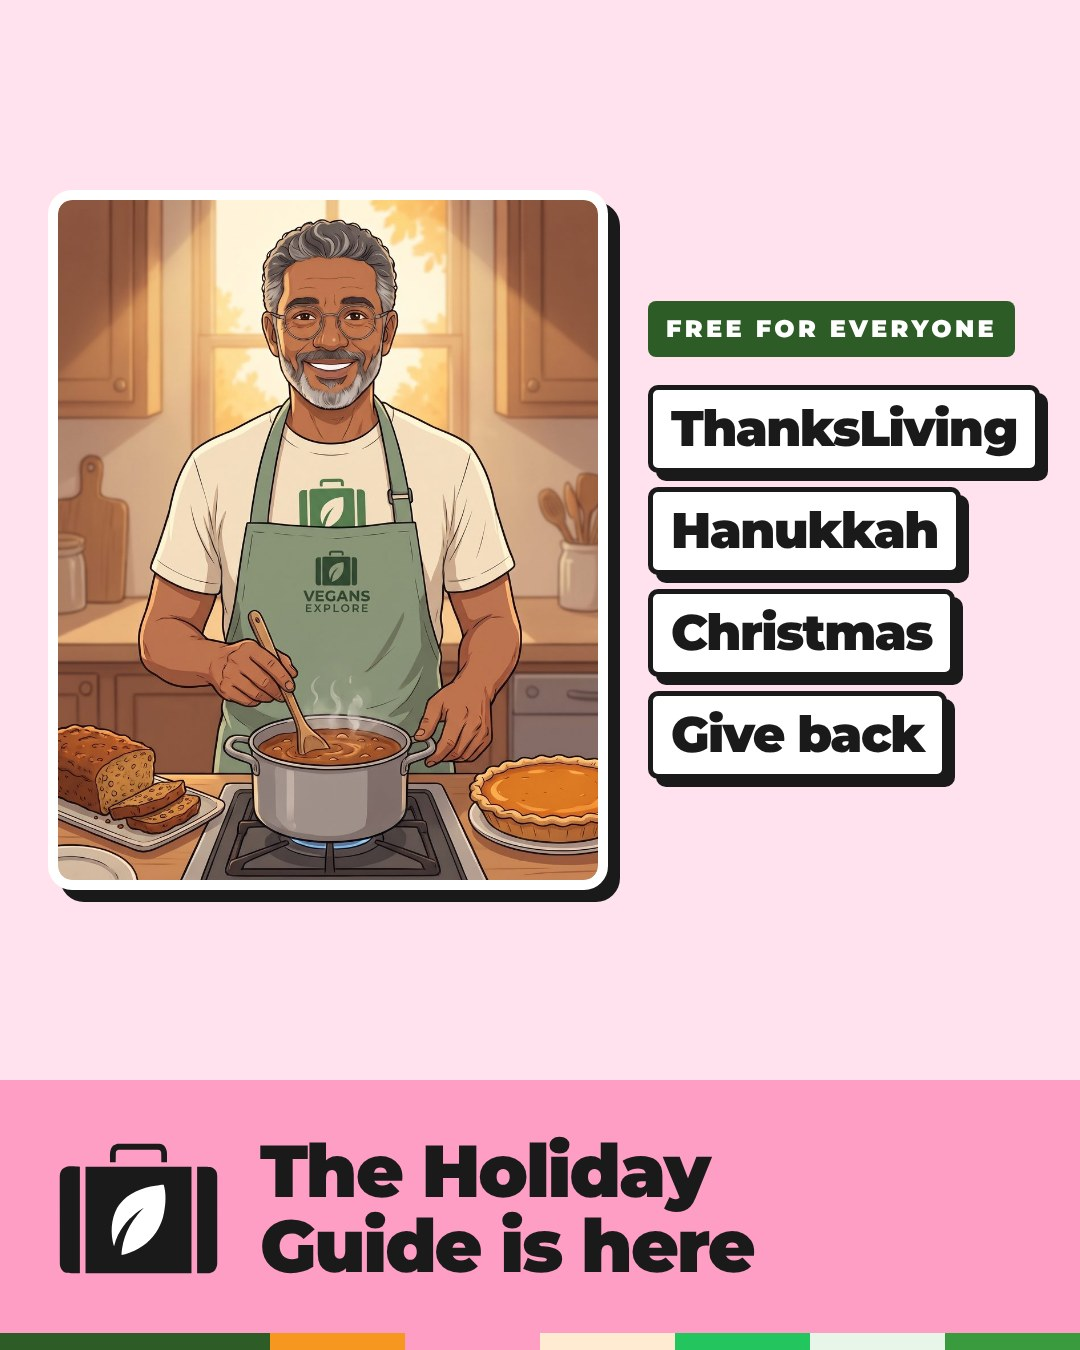
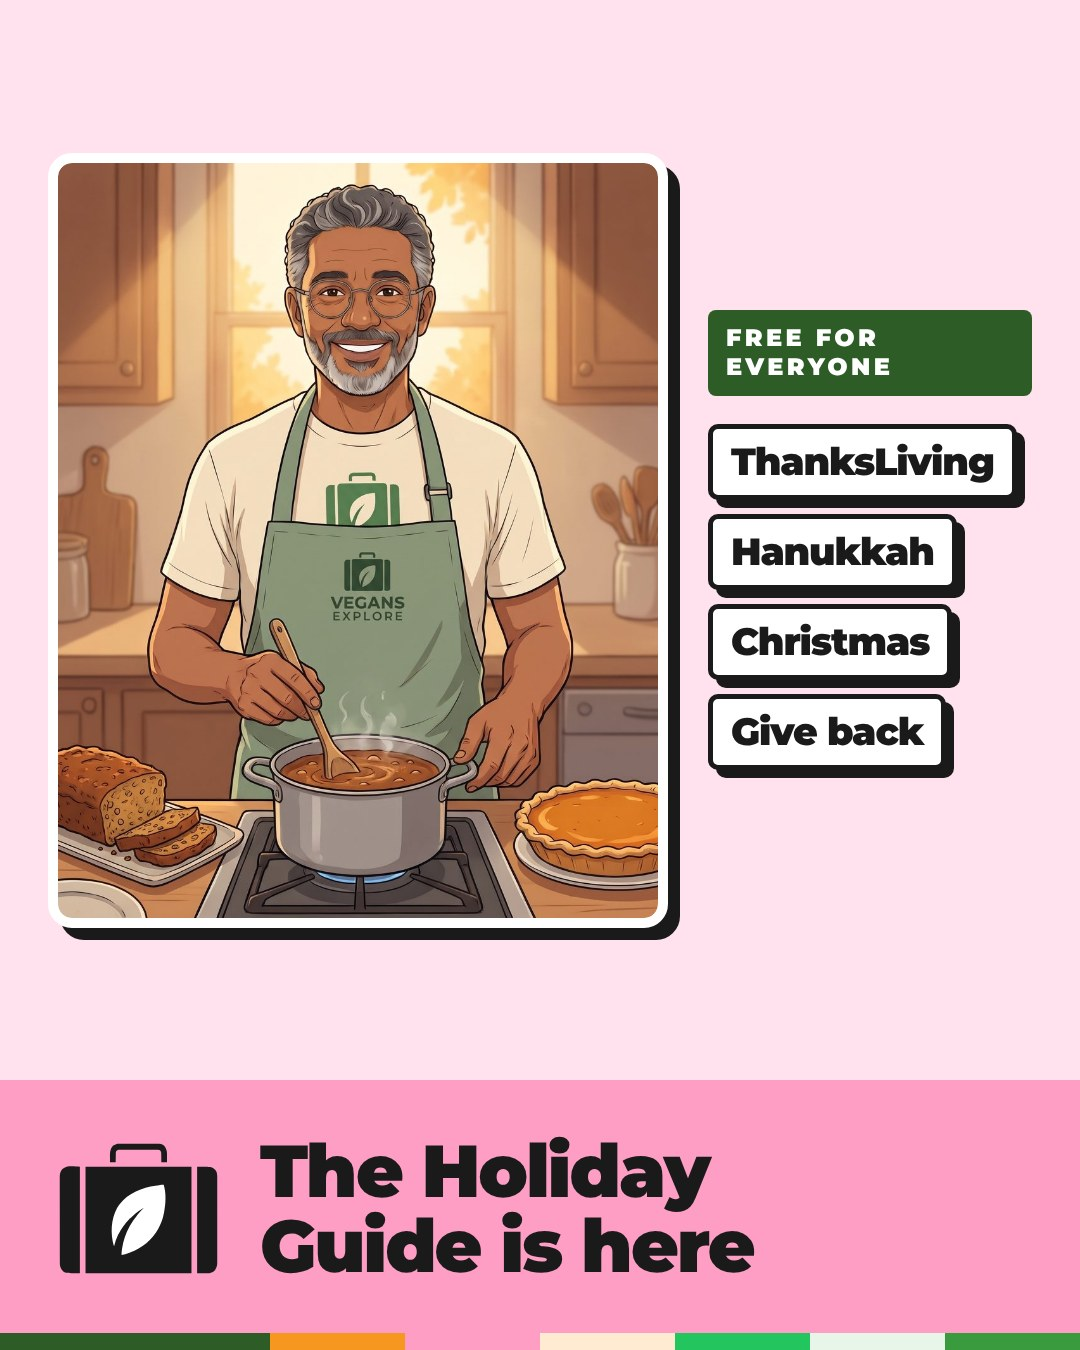
Design team once-over: Holiday and Shows review in progress
Claude-Session: https://claude.ai/code/session_016TNa9UbJfSyMYLUwC33Bbw

diff --git a/public/social/review-2026-11-16/your-city/render.js b/public/social/review-2026-11-16/your-city/render.js
@@ -51,7 +51,7 @@ const extra = `
   .plate .p{font-size:var(--pf,42px);font-weight:900;line-height:1.08;letter-spacing:-.02em}
   .plate .p i{font-style:normal;color:var(--pink)}
   .hero{flex-direction:row;align-items:center;gap:40px;padding:48px}
-  .hgd{height:auto;width:560px;aspect-ratio:4/5}
+  .hgd{height:auto;width:620px;aspect-ratio:4/5}
   .hcol{flex:1;display:flex;flex-direction:column;gap:14px;align-items:flex-start}
   .hcol .pill{background:var(--dk);color:#fff;font-size:24px;font-weight:900;letter-spacing:.14em;text-transform:uppercase;padding:14px 18px;border-radius:8px;margin-bottom:14px;line-height:1.2}
   .hcol b{font-size:var(--hf,50px);font-weight:900;line-height:1;letter-spacing:-.03em;color:var(--ink);background:#fff;border:5px solid var(--ink);border-radius:10px;padding:14px 18px;box-shadow:8px 8px 0 var(--ink)}
@@ -68,7 +68,7 @@ const html = `<!doctype html><html><head><meta charset="utf-8"><base href="${BAS
   await p.evaluate(() => {
     document.querySelectorAll('.plate').forEach((pl) => { let f = 46; const fits = () => [...pl.querySelectorAll('.p')].every((e) => e.scrollWidth <= e.clientWidth + 1) && pl.scrollHeight <= pl.clientHeight + 1;
       pl.style.setProperty('--pf', f + 'px'); while (f > 24 && !fits()) { f -= 1; pl.style.setProperty('--pf', f + 'px'); } });
-    document.querySelectorAll('.hcol').forEach((c) => { let f = 54; const fits = () => [...c.querySelectorAll('b')].every((e) => e.getBoundingClientRect().right <= c.closest('.pa').getBoundingClientRect().right - 40);
+    document.querySelectorAll('.hcol').forEach((c) => { let f = 54; const fits = () => [...c.querySelectorAll('b')].every((e) => e.getBoundingClientRect().right <= c.closest('.pa').getBoundingClientRect().right - 58);
       c.style.setProperty('--hf', f + 'px'); while (f > 28 && !fits()) { f -= 1; c.style.setProperty('--hf', f + 'px'); } });
   });
   const bad = await p.evaluate(() => {
